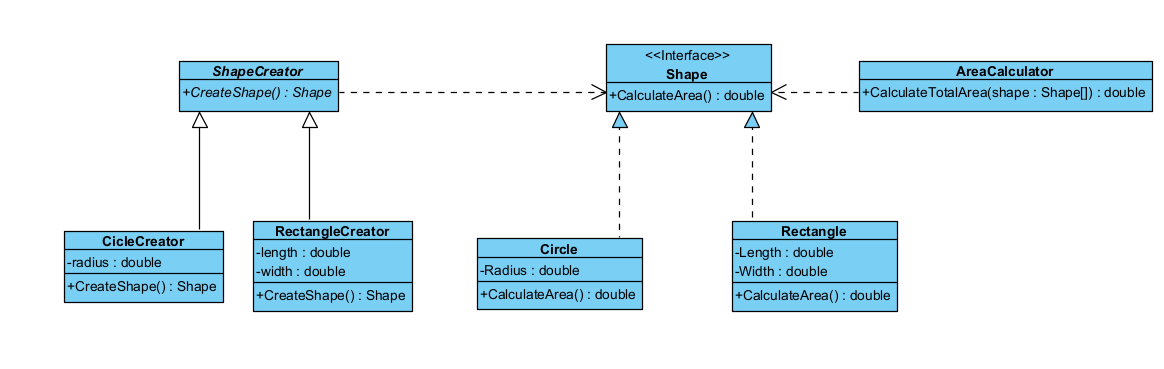
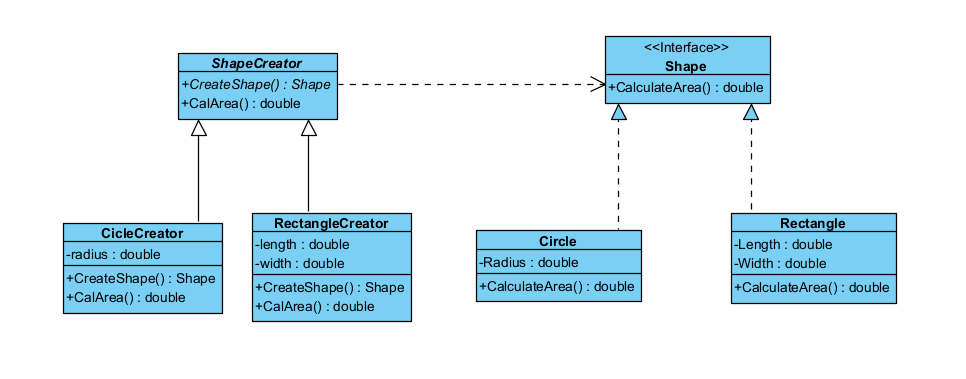
Add files via upload

Changed region(s): [[0.0311, 0.5366, 0.9317, 0.8645], [0.1553, 0.0894, 0.9938, 0.3875]]

diff --git a/27_2251172370_BuiCongHuy_BaiTap3/27_2251172370_BuiCongHuy_BaiTap3/Main.java b/27_2251172370_BuiCongHuy_BaiTap3/27_2251172370_BuiCongHuy_BaiTap3/Main.java
@@ -4,14 +4,11 @@ public class Main {
 
 	public static void main(String[] args) {
 		// TODO Auto-generated method stub
-		Shape[] shapes = {
-			new CircleCreator(3).CreateShape(),
-			new CircleCreator(4).CreateShape(),
-			new RectangleCreator(2,3).CreateShape(),
-		};
-		AreaCalculator cal = new AreaCalculator();
+		ShapeCreator c1 = new CircleCreator(3);
+		ShapeCreator r1 = new RectangleCreator(3,4);
 		
-		System.out.println("Tong dien tich: "+cal.CalculateTotalArea(shapes));
+		System.out.println("Cỉrcle: "+c1.CalArea());
+		System.out.println("Rectangle: "+r1.CalArea());
 	}
 
 }

diff --git a/27_2251172370_BuiCongHuy_BaiTap3/27_2251172370_BuiCongHuy_BaiTap3/RectangleCreator.java b/27_2251172370_BuiCongHuy_BaiTap3/27_2251172370_BuiCongHuy_BaiTap3/RectangleCreator.java
@@ -2,13 +2,20 @@ package dp_b3;
 
 public class RectangleCreator extends ShapeCreator{
 	double length,width;
+	public RectangleCreator(double l,double w) {
+		length = l;
+		width = w;
+	}
 	@Override
 	public Shape CreateShape() {
 		// TODO Auto-generated method stub
 		return new Rectangle(length,width);
 	}
-	public RectangleCreator(double l,double w) {
-		length = l;
-		width = w;
+	
+	@Override
+	public double CalArea() {
+		// TODO Auto-generated method stub
+		return CreateShape().CalculateArea();
 	}
+	
 }

diff --git a/27_2251172370_BuiCongHuy_BaiTap3/27_2251172370_BuiCongHuy_BaiTap3/CircleCreator.java b/27_2251172370_BuiCongHuy_BaiTap3/27_2251172370_BuiCongHuy_BaiTap3/CircleCreator.java
@@ -2,12 +2,19 @@ package dp_b3;
 
 public class CircleCreator extends ShapeCreator{
 	double radius;
+	public CircleCreator(double r){
+		radius = r;
+	}
 	@Override
 	public Shape CreateShape() {
 		// TODO Auto-generated method stub
 		return new Circle(radius);
 	}
-	public CircleCreator(double r){
-		radius = r;
+	
+	@Override
+	public double CalArea() {
+		// TODO Auto-generated method stub
+		return CreateShape().CalculateArea();
 	}
+	
 }

diff --git a/27_2251172370_BuiCongHuy_BaiTap3/27_2251172370_BuiCongHuy_BaiTap3/ShapeCreator.java b/27_2251172370_BuiCongHuy_BaiTap3/27_2251172370_BuiCongHuy_BaiTap3/ShapeCreator.java
@@ -2,4 +2,5 @@ package dp_b3;
 
 public abstract class ShapeCreator {
 	public abstract Shape CreateShape(); 
+	public abstract double CalArea() ;
 }
